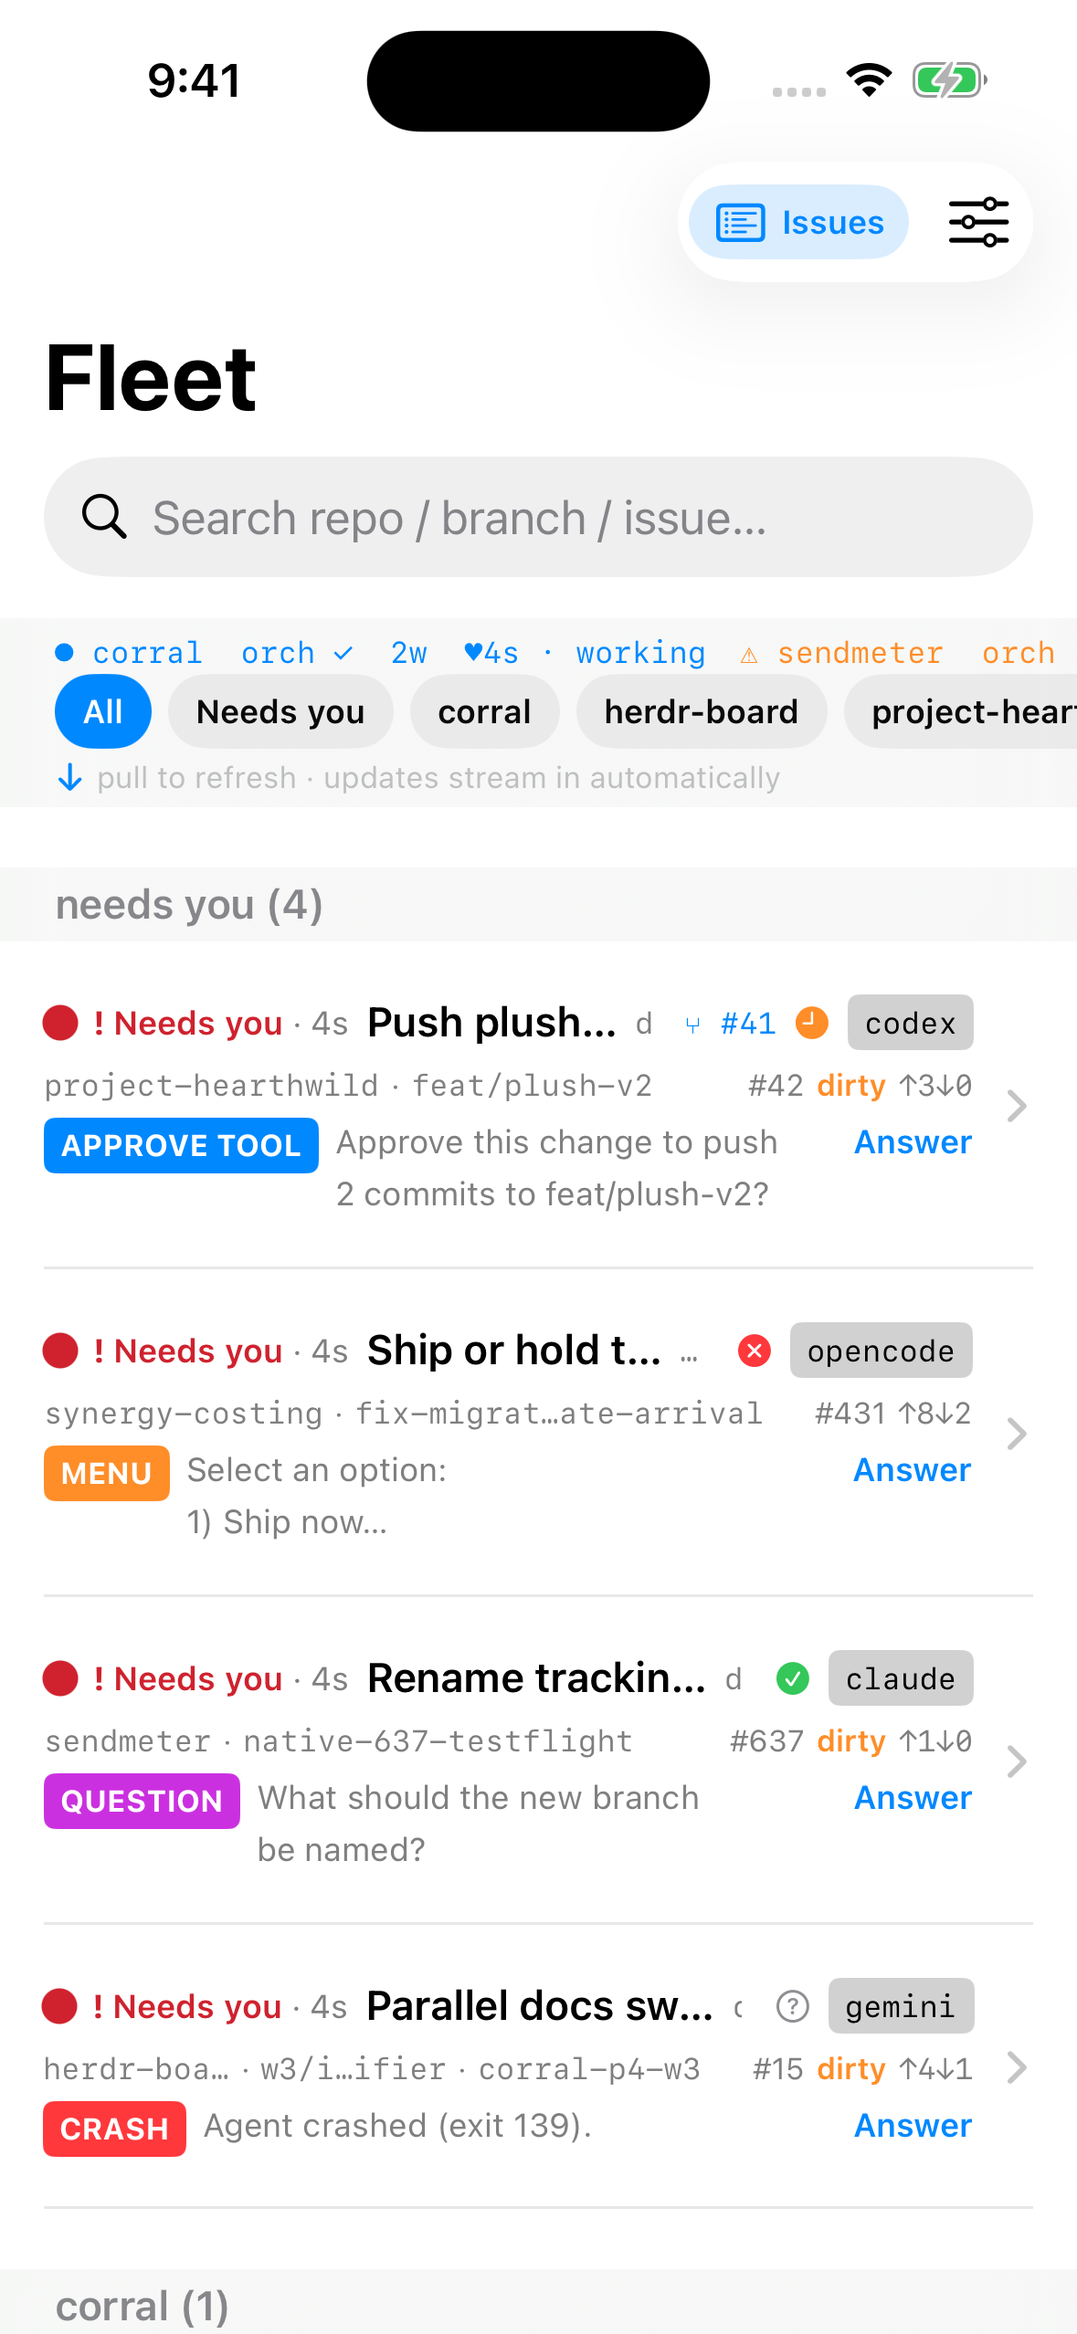
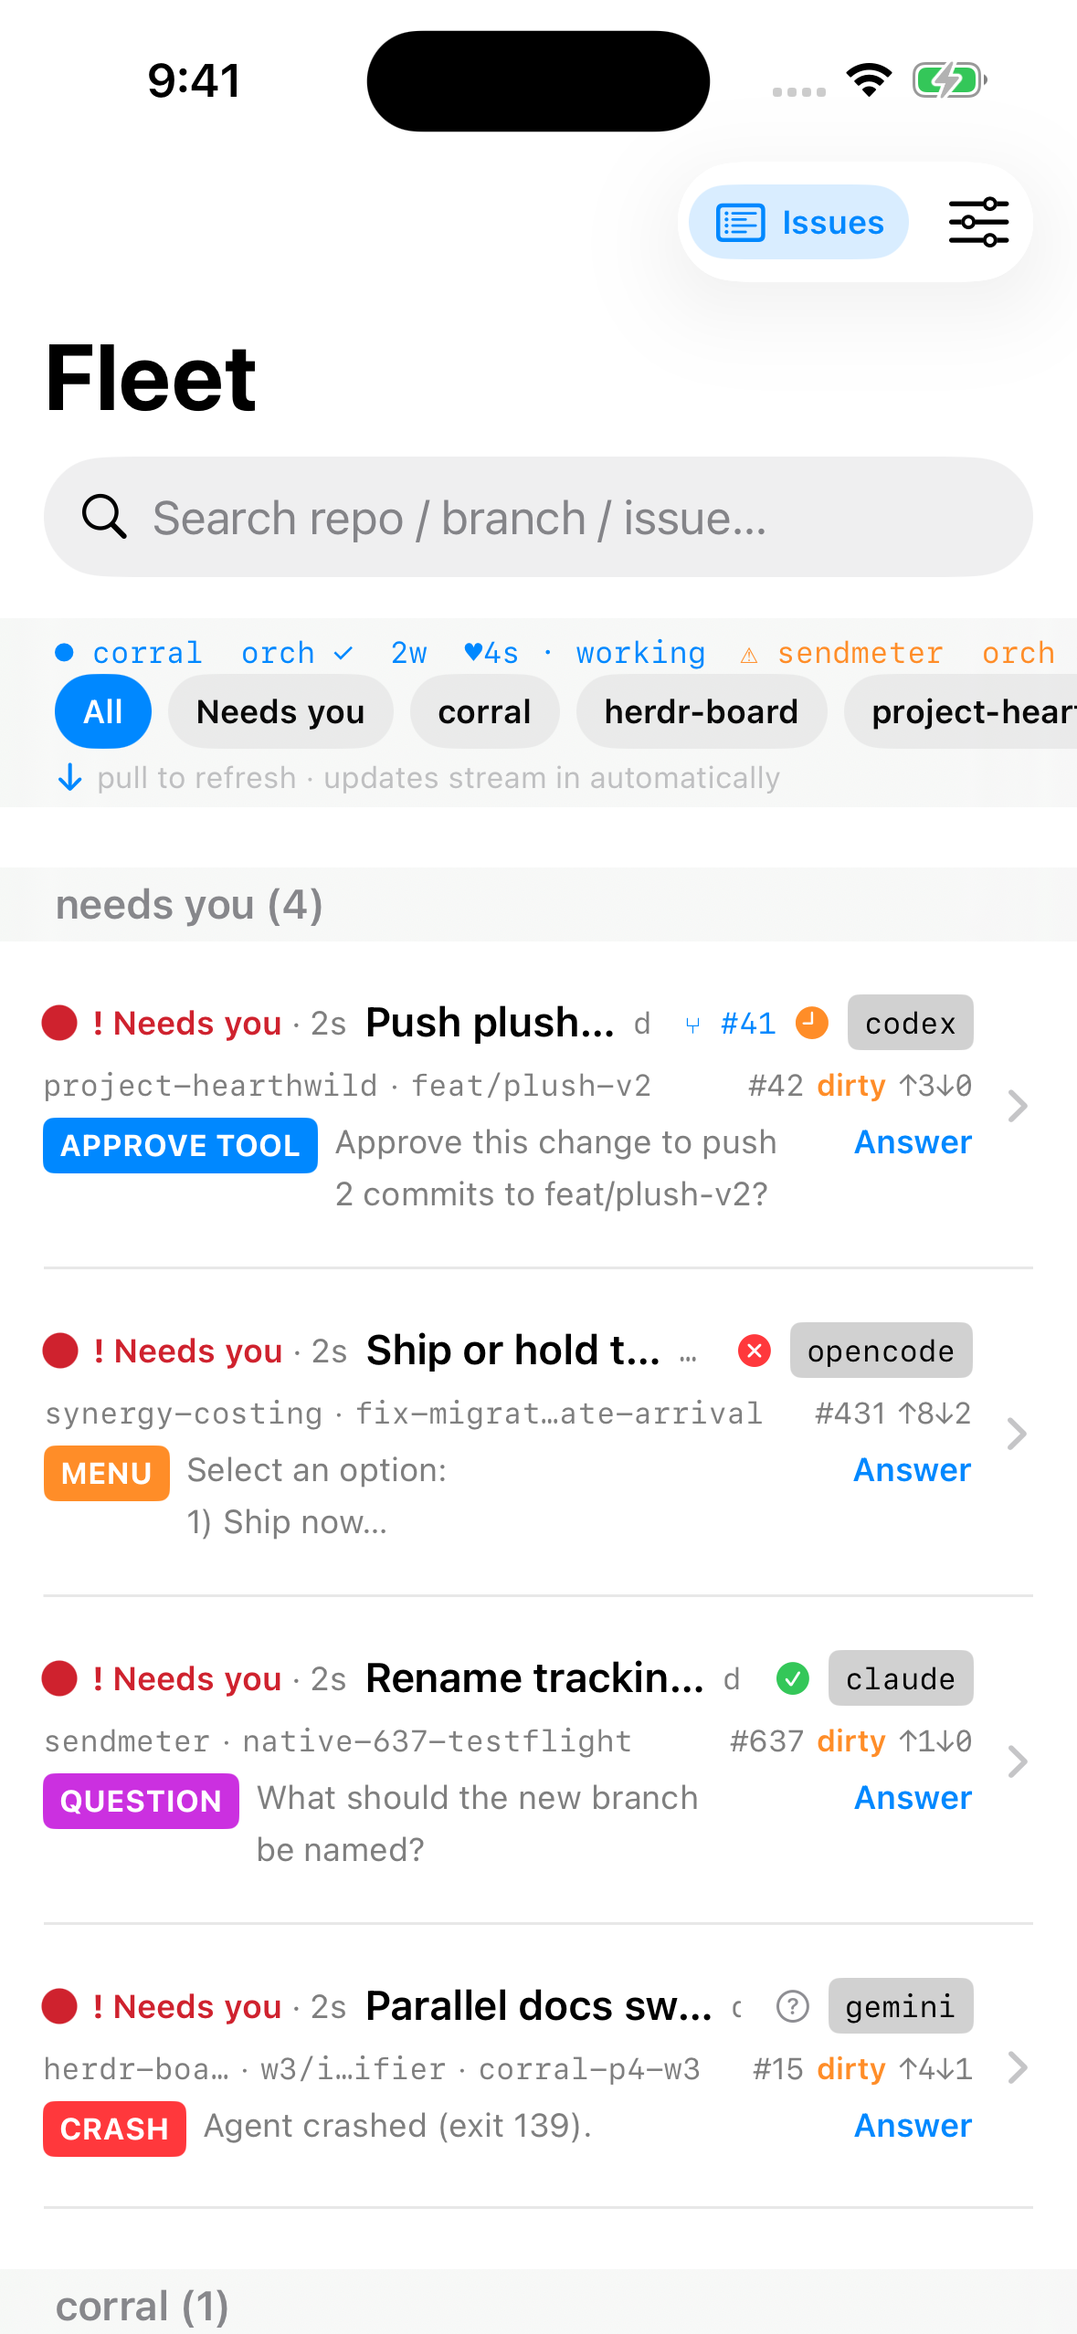
feat: complete transcript rail rendering

diff --git a/ios/FleetNotifier/UI/FleetViews.swift b/ios/FleetNotifier/UI/FleetViews.swift
@@ -1397,6 +1397,7 @@ private struct RecentOutputRowView: View {
             } else {
                 RecentBlockRow(
                     block: block,
+                    showSpeaker: previousBlock?.kind != block.kind,
                     showTimestamp: RecentOutputRender.isBoundary(
                         previous: previousBlock,
                         current: block))
@@ -1432,54 +1433,70 @@ private struct RecentOutputRowView: View {
 
 private struct RecentBlockRow: View {
     let block: TranscriptBlock
+    let showSpeaker: Bool
     let showTimestamp: Bool
     @State private var expanded: Bool
 
-    init(block: TranscriptBlock, showTimestamp: Bool) {
+    init(block: TranscriptBlock, showSpeaker: Bool, showTimestamp: Bool) {
         self.block = block
+        self.showSpeaker = showSpeaker
         self.showTimestamp = showTimestamp
         _expanded = State(initialValue: block.kind == .tool
                           && RecentOutputRender.isCodeOrDiff(block.text))
     }
 
     var body: some View {
-        Group {
-            switch block.kind {
-            case .user:
-                userMessage
-                    .accessibilityElement(children: .combine)
-                    .accessibilityLabel(RecentOutputRender.accessibilityLabel(block))
-            case .agent:
-                agentMessage
-                    .accessibilityElement(children: .combine)
-                    .accessibilityLabel(RecentOutputRender.accessibilityLabel(block))
-            case .tool, .system:
-                toolMessage
+        HStack(alignment: .top, spacing: 8) {
+            speakerRail
+                .frame(width: 58, alignment: .topLeading)
+            Group {
+                switch block.kind {
+                case .user:
+                    userMessage
+                        .accessibilityElement(children: .combine)
+                        .accessibilityLabel(RecentOutputRender.accessibilityLabel(block))
+                case .agent:
+                    agentMessage
+                        .accessibilityElement(children: .combine)
+                        .accessibilityLabel(RecentOutputRender.accessibilityLabel(block))
+                case .tool, .system:
+                    toolMessage
+                }
             }
+            .frame(maxWidth: .infinity, alignment: .leading)
         }
         .frame(maxWidth: .infinity, alignment: .leading)
     }
 
-    private var userMessage: some View {
-        VStack(alignment: .leading, spacing: 4) {
-            roleHeader
-            HStack {
-                Spacer(minLength: 24)
-                messageLines
-                    .padding(10)
-                    .background(RecentOutputPalette.userTint,
-                                in: RoundedRectangle(cornerRadius: 10))
-                    .textSelection(.enabled)
+    private var speakerRail: some View {
+        VStack(alignment: .leading, spacing: 2) {
+            Circle()
+                .fill(roleColor)
+                .frame(width: 7, height: 7)
+                .padding(.top, 5)
+            if showSpeaker {
+                Text(block.kind == .tool ? "▸" : roleLabel)
+                    .font(.caption2.weight(.bold))
+                    .foregroundStyle(roleColor)
+                    .lineLimit(1)
             }
         }
     }
 
-    private var agentMessage: some View {
-        VStack(alignment: .leading, spacing: 4) {
-            roleHeader
+    private var userMessage: some View {
+        HStack {
+            Spacer(minLength: 24)
             messageLines
+                .padding(10)
+                .background(RecentOutputPalette.userTint,
+                            in: RoundedRectangle(cornerRadius: 10))
                 .textSelection(.enabled)
         }
+    }
+
+    private var agentMessage: some View {
+        messageLines
+            .textSelection(.enabled)
     }
 
     private var toolMessage: some View {

diff --git a/ios/FleetNotifierTests/FleetNotifierTests.swift b/ios/FleetNotifierTests/FleetNotifierTests.swift
@@ -3816,6 +3816,16 @@ final class RecentOutputModelTests: XCTestCase {
         XCTAssertFalse(RecentOutputRender.isCodeOrDiff("---"))
         XCTAssertFalse(RecentOutputRender.isCodeOrDiff("git diff -- src/catalog.rs"))
 
+        XCTAssertTrue(RecentOutputRender.isCodeOrDiff("def deploy():\n    print(\"ok\")"))
+        XCTAssertTrue(RecentOutputRender.isCodeOrDiff("#!/bin/sh\necho ok"))
+        XCTAssertTrue(RecentOutputRender.isBoundary(previous: nil, current: diff))
+        XCTAssertFalse(RecentOutputRender.isBoundary(previous: diff, current: block(.tool, "echo ok")))
+        let pythonLines = RecentOutputRender.codeLines(for: block(.tool, "def deploy():\n    print(\"ok\")"))
+        XCTAssertTrue(pythonLines.allSatisfy(\.isHighlighted))
+        XCTAssertTrue(pythonLines.contains { line in
+            line.segments.contains { $0.kind == .string }
+        })
+
         let hashDiff = block(.tool, "git diff -- src/catalog.rs\n@@ -1 +1 @@\n value#hash")
         let hashLine = RecentOutputRender.codeLines(for: hashDiff)
             .first { $0.text == " value#hash" }

diff --git a/ios/FleetNotifier/UI/RecentOutputModel.swift b/ios/FleetNotifier/UI/RecentOutputModel.swift
@@ -565,7 +565,21 @@ extension RecentOutputRender {
         let hasDiffEvidence = (hasGitHeader && (hasHunk || (hasFileHeader && hasChange)))
             || (hasHunk && hasChange)
             || (hasFileHeader && hasHunk)
-        return hasFence || hasDiffEvidence
+        let hasCodeSignal = lines.contains { line in
+            let trimmed = line.trimmingCharacters(in: .whitespaces)
+            let lower = trimmed.lowercased()
+            return trimmed.hasPrefix("#!")
+                || trimmed.hasPrefix("$ ")
+                || lower.hasPrefix("def ")
+                || lower.hasPrefix("class ")
+                || lower.hasPrefix("import ")
+                || lower.hasPrefix("from ")
+                || lower.hasPrefix("echo ")
+                || lower.hasPrefix("export ")
+                || lower.hasPrefix("if ")
+                || lower.hasPrefix("for ")
+        }
+        return hasFence || hasDiffEvidence || hasCodeSignal
     }
 
     private static func highlight(_ line: String) -> [RecentCodeSegment] {

diff --git a/clients/egui/src/ui/board.rs b/clients/egui/src/ui/board.rs
@@ -1868,6 +1868,32 @@ fn recent_block_style(kind: RecentBlockKind) -> RecentBlockStyle {
     }
 }
 
+fn recent_speaker_rail_label(kind: RecentBlockKind, show_label: bool) -> Option<&'static str> {
+    if !show_label {
+        return None;
+    }
+    Some(match kind {
+        RecentBlockKind::User => "you",
+        RecentBlockKind::Tool => "tool",
+        RecentBlockKind::Agent => "assistant",
+    })
+}
+
+fn recent_speaker_rail(ui: &mut Ui, kind: RecentBlockKind, show_label: bool) {
+    let (marker, color) = match kind {
+        RecentBlockKind::User => ("●", theme::ui::USER_BLUE),
+        RecentBlockKind::Tool => ("▸", theme::ui::ACCENT),
+        RecentBlockKind::Agent => ("●", theme::ui::INK),
+    };
+    ui.vertical(|ui| {
+        ui.set_width(52.0);
+        ui.label(RichText::new(marker).small().strong().color(color));
+        if let Some(label) = recent_speaker_rail_label(kind, show_label) {
+            ui.label(RichText::new(label).small().strong().color(color));
+        }
+    });
+}
+
 fn recent_tail_entry(ui: &mut Ui, line: &str, position: usize, show_label: bool) {
     let Some(text) = recent_visible_text(line) else {
         return;
@@ -1910,70 +1936,60 @@ fn recent_chat_block(
             let width = (ui.available_width() - style.inset).max(0.0);
             ui.set_width(width);
             frame.show(ui, |ui| {
-                if show_label {
-                    ui.label(
-                        RichText::new("you")
-                            .small()
-                            .strong()
-                            .color(theme::ui::USER_BLUE),
-                    );
-                }
-                recent_message_lines(ui, text, FontId::proportional(12.0));
+                ui.horizontal(|ui| {
+                    recent_speaker_rail(ui, RecentBlockKind::User, show_label);
+                    ui.vertical(|ui| {
+                        recent_message_lines(ui, text, FontId::proportional(12.0));
+                    });
+                });
             });
         });
     } else {
         frame.show(ui, |ui| {
-            ui.set_width(ui.available_width());
-            if style.monospace {
-                if recent_is_code_or_diff(text) {
-                    CollapsingHeader::new(
-                        RichText::new(format!("tool  {}", recent_tool_summary(text)))
-                            .small()
-                            .strong()
-                            .color(theme::ui::ACCENT),
-                    )
-                    .id_salt(recent_tool_disclosure_id(position))
-                    .default_open(true)
-                    .show(ui, |ui| {
-                        ui.set_max_width((block_width - 40.0).max(40.0));
-                        egui::Frame::NONE
-                            .fill(theme::ui::BG)
-                            .stroke(Stroke::new(1.0, recent_code_line_color()))
-                            .corner_radius(CornerRadius::same(6))
-                            .inner_margin(egui::Margin::symmetric(8, 6))
-                            .show(ui, |ui| {
-                                for (number, line) in text.split('\n').enumerate() {
-                                    recent_code_line(ui, line, number + 1);
-                                }
-                            });
-                    });
+            ui.columns(2, |columns| {
+                recent_speaker_rail(&mut columns[0], kind, show_label);
+                let ui = &mut columns[1];
+                ui.set_width(ui.available_width());
+                if style.monospace {
+                    if recent_is_code_or_diff(text) {
+                        CollapsingHeader::new(
+                            RichText::new(format!("tool  {}", recent_tool_summary(text)))
+                                .small()
+                                .strong()
+                                .color(theme::ui::ACCENT),
+                        )
+                        .id_salt(recent_tool_disclosure_id(position))
+                        .default_open(true)
+                        .show(ui, |ui| {
+                            ui.set_max_width((block_width - 40.0).max(40.0));
+                            egui::Frame::NONE
+                                .fill(theme::ui::BG)
+                                .stroke(Stroke::new(1.0, recent_code_line_color()))
+                                .corner_radius(CornerRadius::same(6))
+                                .inner_margin(egui::Margin::symmetric(8, 6))
+                                .show(ui, |ui| {
+                                    for (number, line) in text.split('\n').enumerate() {
+                                        recent_code_line(ui, line, number + 1);
+                                    }
+                                });
+                        });
+                    } else {
+                        ui.horizontal_wrapped(|ui| {
+                            ui.add(
+                                egui::Label::new(
+                                    RichText::new(text)
+                                        .monospace()
+                                        .small()
+                                        .color(theme::ui::MUTED),
+                                )
+                                .wrap(),
+                            );
+                        });
+                    }
                 } else {
-                    ui.horizontal_wrapped(|ui| {
-                        if show_label {
-                            ui.label(RichText::new("▸").small().strong().color(theme::ui::ACCENT));
-                        }
-                        ui.add(
-                            egui::Label::new(
-                                RichText::new(text)
-                                    .monospace()
-                                    .small()
-                                    .color(theme::ui::MUTED),
-                            )
-                            .wrap(),
-                        );
-                    });
+                    recent_message_lines(ui, text, FontId::proportional(12.0));
                 }
-            } else {
-                if show_label {
-                    ui.label(
-                        RichText::new("assistant")
-                            .small()
-                            .strong()
-                            .color(theme::ui::INK),
-                    );
-                }
-                recent_message_lines(ui, text, FontId::proportional(12.0));
-            }
+            });
         });
     }
     ui.add_space(4.0);
@@ -2032,7 +2048,22 @@ fn recent_is_code_or_diff(text: &str) -> bool {
     let has_diff_evidence = (has_git_header && (has_hunk || (has_file_header && has_change)))
         || (has_hunk && has_change)
         || (has_file_header && has_hunk);
-    has_fence || has_diff_evidence
+    let has_code_signal = lines.iter().any(|line| {
+        let trimmed = line.trim_start();
+        let lower = trimmed.to_ascii_lowercase();
+        trimmed.starts_with("#!")
+            || trimmed.starts_with("$ ")
+            || lower.starts_with("def ")
+            || lower.starts_with("class ")
+            || lower.starts_with("import ")
+            || lower.starts_with("from ")
+            || lower.starts_with("echo ")
+            || lower.starts_with("export ")
+            || lower.starts_with("if ")
+            || lower.starts_with("for ")
+            || lower.contains("#!/usr/bin/")
+    });
+    has_fence || has_diff_evidence || has_code_signal
 }
 
 fn append_recent_segment(
@@ -3947,6 +3978,10 @@ mod tests {
         assert!(!recent_is_code_or_diff("index out of bounds"));
         assert!(!recent_is_code_or_diff("---"));
         assert!(!recent_is_code_or_diff("git diff -- src/catalog.rs"));
+        assert!(recent_is_code_or_diff("def deploy():\n    print(\"ok\")"));
+        assert!(recent_is_code_or_diff("#!/bin/sh\necho ok"));
+        assert!(recent_speaker_rail_label(RecentBlockKind::Tool, true).is_some());
+        assert!(recent_speaker_rail_label(RecentBlockKind::Tool, false).is_none());
         assert!(
             recent_highlight("+let value = \"highlighted\";")
                 .iter()

diff --git a/ios/check-release-demo.py b/ios/check-release-demo.py
@@ -65,7 +65,7 @@ ROOT = Path(__file__).resolve().parent.parent
 APPROVED_RELEASE_SOURCE_DIGEST = (
     # #280: demo seed newest-first order + offline-spinner parity arms moved
     # the source set (DemoFleet.swift, AppModel.swift); re-pin per convention.
[2 lines of base64/hex data omitted]
 )
 RELEASE_SOURCE_DIGEST_MARKER = source_digest_marker(APPROVED_RELEASE_SOURCE_DIGEST)
 RELEASE_BUILD_INPUTS = tuple(

diff --git a/.report.md b/.report.md
@@ -180,11 +180,13 @@ shipped-surface evidence available from this lane.
 ## Changed
 
 - Added daemon-side private-use glyph scrubbing at the bounded read-tail boundary; contiguous PUA scalars become `[icon]`, while ordinary Unicode and emoji remain unchanged.
-- egui Recent output now shows speaker labels only when the speaker changes and uses a compact `▸` tool marker for continuation lines.
-- iOS Recent output groups consecutive tool/system blocks into one compact run.
-- Added regression coverage for PUA scrubbing and iOS grouping.
+- egui Recent output now uses a fixed two-column speaker rail (marker + role on speaker change) with transcript content to the right; tool runs use the compact `▸` rail marker.
+- iOS Recent output uses a fixed speaker rail with marker/role on speaker change and transcript content to the right; consecutive tool/system blocks remain one compact run.
+- Client-side Recent output highlighting now recognizes Python and shell code signals in addition to fenced code and diffs. Diff additions/deletions/hunks retain distinct styling on both surfaces.
+- Added red-probe regression coverage for Python/shell detection, diff token colors, rail label transitions, PUA scrubbing, and iOS tool-run grouping.
 - Re-pinned the iOS Release source digest.
 - Captured `docs/design/evidence/issue-271/impl/ios-transcript.png` from an iOS Simulator.
+- Captured `docs/design/evidence/issue-271/impl/board-wasm-1320x860.png` from the compiled wasm board. The capture is a real shipped surface, but the bundled demo fixture has no readable tail for a glyph-rich transcript, so it does not prove the transcript-specific visual state.
 
 ## Gates
 
@@ -195,7 +197,18 @@ shipped-surface evidence available from this lane.
 - `xcodebuild build -project ios/FleetNotifier.xcodeproj -scheme FleetNotifier -destination 'generic/platform=iOS Simulator' -derivedDataPath /tmp/fn-dd` — exit 0; `** BUILD SUCCEEDED **`.
 - `HERDR_XCODEBUILD_DIRECT=1 HERMES_SIM_TASK_ACTIVE=1 xcodebuild test -project ios/FleetNotifier.xcodeproj -scheme FleetNotifier -destination 'platform=iOS Simulator,id=59DDC0C5-891E-4EC0-91AF-4F50DF68D793' -derivedDataPath /tmp/fn-dd -only-testing:FleetNotifierTests` — exit 0; `Executed 210 tests, with 0 failures`; `** TEST SUCCEEDED **`.
 
+### Completion Cycle 1 reruns
+
+- `cargo fmt --all --check` — exit 0.
+- `cargo clippy --workspace --all-targets -- -D warnings` — exit 0; `Finished dev profile`.
+- `cargo test --workspace` — exit 0; `172 corrald-ui tests passed`, all workspace suites passed; live tests remained ignored.
[1 lines of base64/hex data omitted]
+- `xcodebuild build -project ios/FleetNotifier.xcodeproj -scheme FleetNotifier -destination 'generic/platform=iOS Simulator' -derivedDataPath /tmp/fn-dd` — exit 0; `** BUILD SUCCEEDED **`.
+- Focused egui red probe: `cargo test -p corrald-ui recent_highlighting_is_restricted_to_code_or_diff_tool_blocks` — exit 0; `1 passed; 0 failed`.
+
 ## Not verified
 
-- `bash scripts/test-design-gate-egui-integration.sh --publish` exited 1 before capture because its generated fake fleet-ops fixture is malformed (`list: command not found`, `switch: command not found`, and an unterminated shell fixture). Therefore no native egui board screenshot was produced.
+- The compiled wasm board capture is real, but the bundled demo fixture has no readable tail; `board-wasm-1320x860.png` therefore does not show the required glyph-rich transcript, rail, and highlighted code/diff state.
+- The simulator capture is real, but `-demoMode` opened the Fleet list rather than the recent-output detail surface; it does not prove the iOS transcript visual state.
+- `bash scripts/test-design-gate-egui-integration.sh --publish` still exits 1 before capture because its generated fake fleet-ops fixture is malformed (`list: command not found`, `switch: command not found`, and an unterminated shell fixture).
 - Live-daemon tail rendering and physical-device font rendering were not verified.
